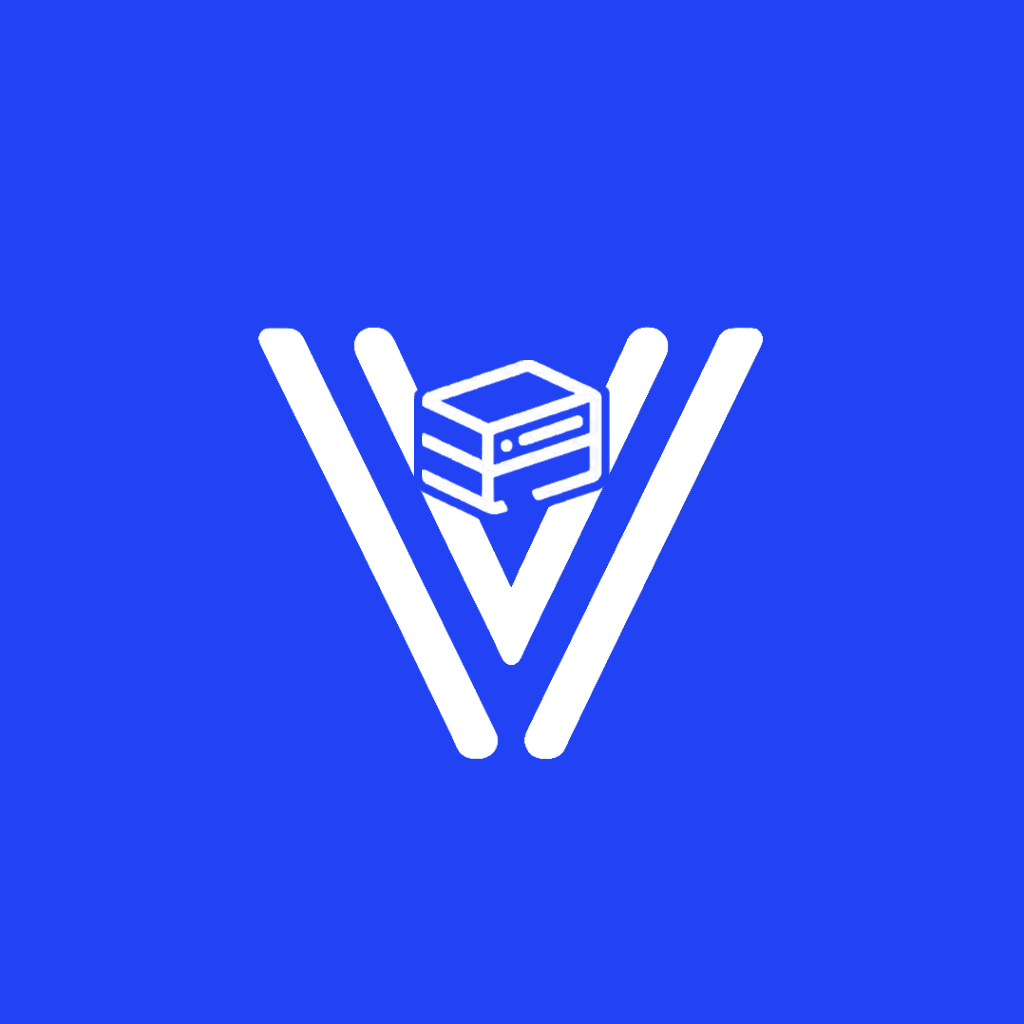
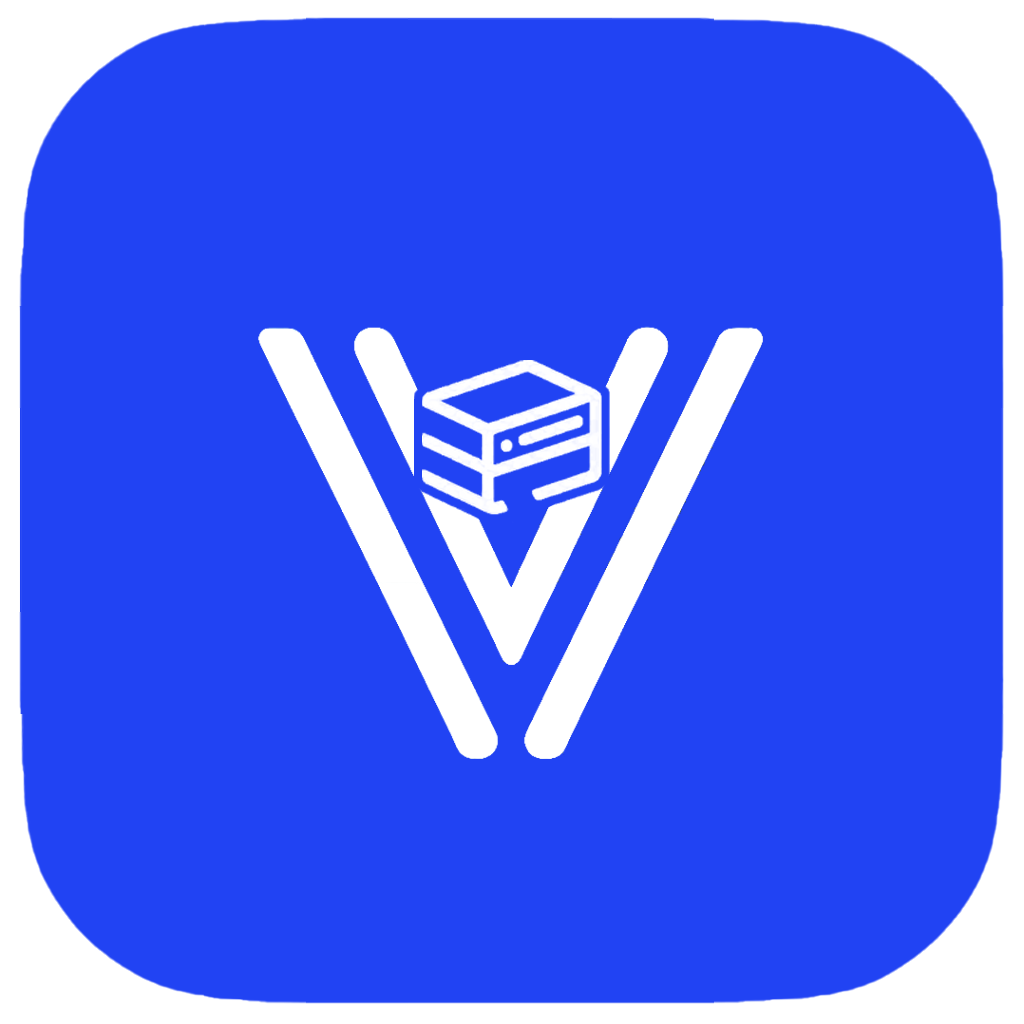
chore: 发布 v1.7.2，修复仓库迁移逻辑并更新图标
- 修复迁移逻辑：换用新标志位 sourceListMigratedToOpaiopaioRepo（旧版已置位旧 key，导致 1.7.1 升级后迁移被跳过）
- 升级后现可自动从 haukuen/venera-configs 迁移至 opaiopaio/venera-configs，无需手动改地址
- 更新应用图标（圆角），配置 adaptive icon 三层（background #2143F3 + foreground + monochrome，16% 安全区 inset）
- 版本号 1.7.1+3 -> 1.7.2+4

Changed region(s): [[0.0, 0.0, 1.0, 1.0]]

diff --git a/lib/init.dart b/lib/init.dart
@@ -102,14 +102,16 @@ void _checkOldConfigs() {
 
   // 一次性迁移:把使用旧版源列表 URL 的用户切回当前默认值。
   // 通过本地标志位保证只执行一次 —— 用户之后手动改回的 URL 不会被再次覆盖。
-  if (appdata.implicitData['sourceListMigratedToDefault'] != true) {
+  // 注意:每次 defaultSourceListUrl 变更时必须用新 key(旧版已置位旧 key,沿用会跳过迁移)。
+  // 本次 1.7.1: default 由 haukuen/venera-configs 迁移至 opaiopaio/venera-configs。
+  if (appdata.implicitData['sourceListMigratedToOpaiopaioRepo'] != true) {
     var currentUrl = appdata.settings['comicSourceListUrl'].toString();
     if (legacySourceListUrls.contains(currentUrl) ||
         currentUrl.contains("git.nyne.dev")) {
       appdata.settings['comicSourceListUrl'] = defaultSourceListUrl;
       appdata.saveData();
     }
-    appdata.implicitData['sourceListMigratedToDefault'] = true;
+    appdata.implicitData['sourceListMigratedToOpaiopaioRepo'] = true;
     appdata.writeImplicitData();
   }
 }
